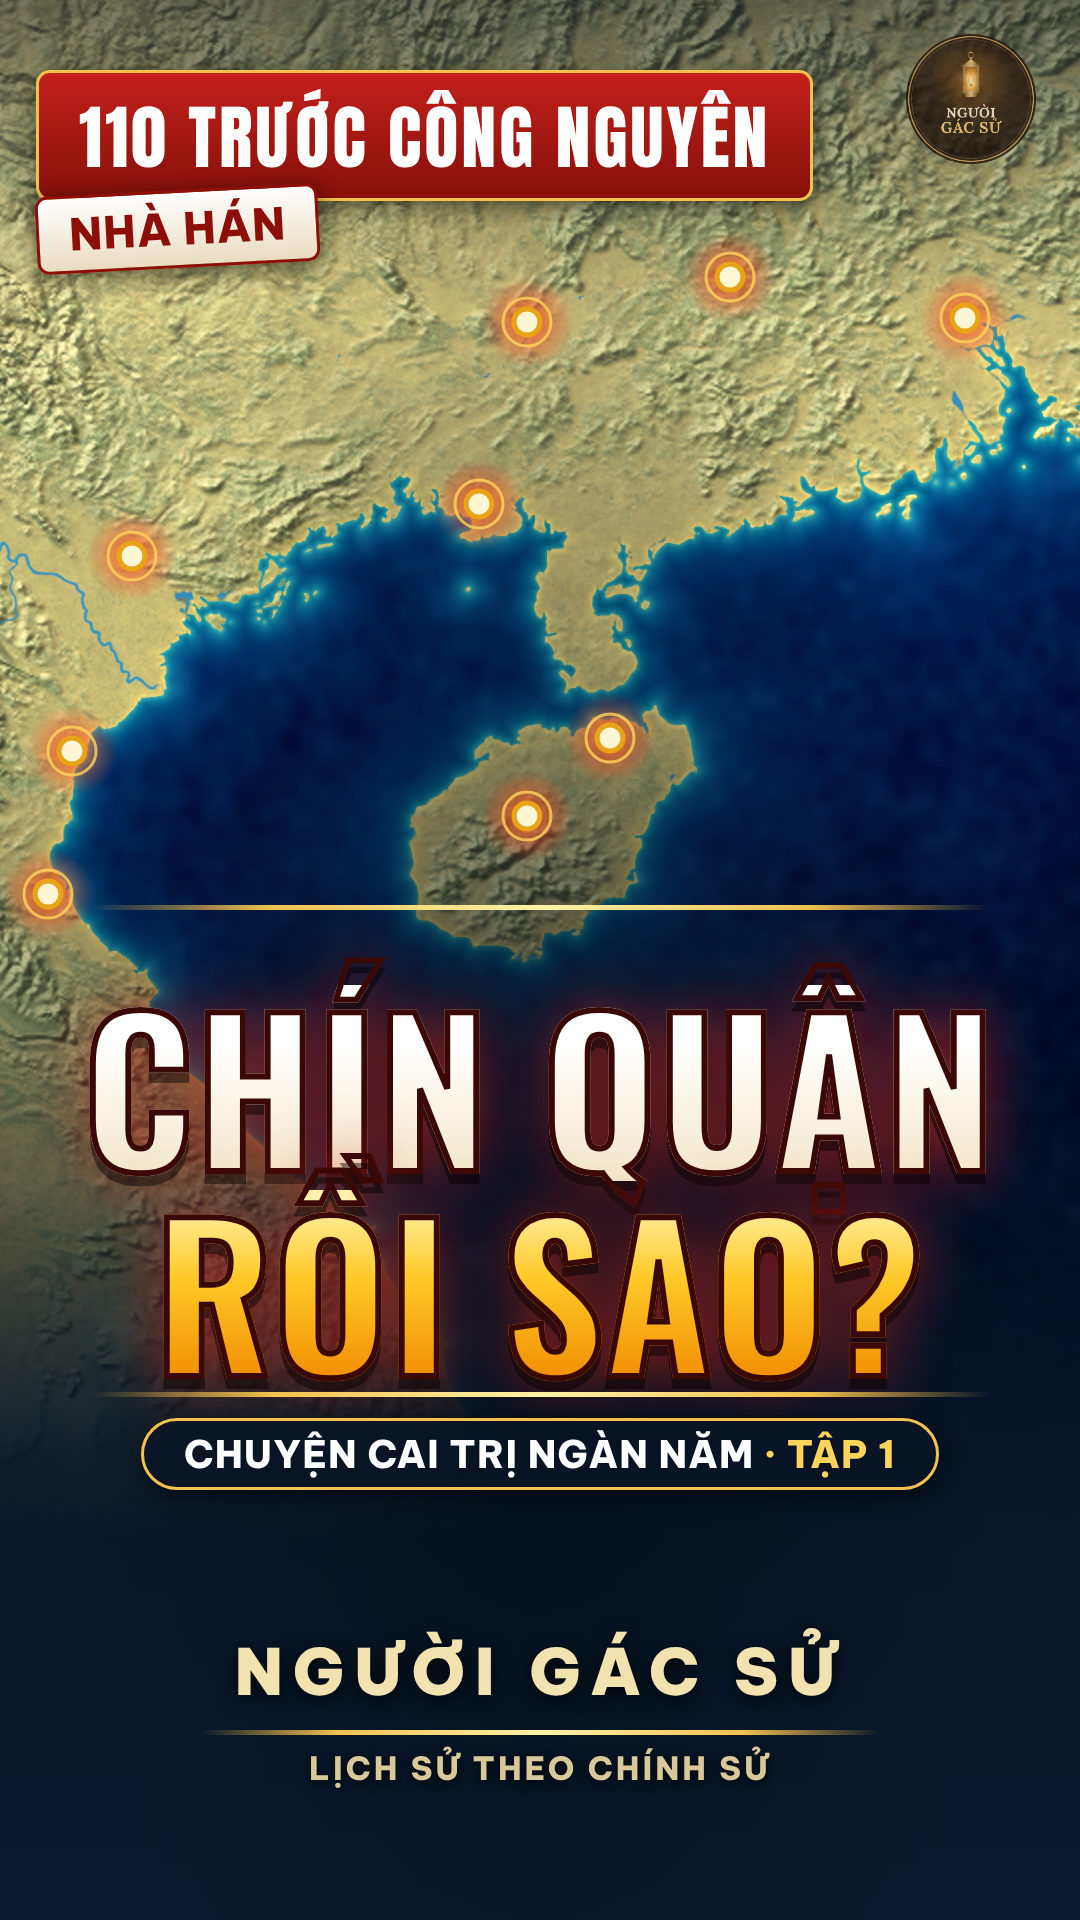
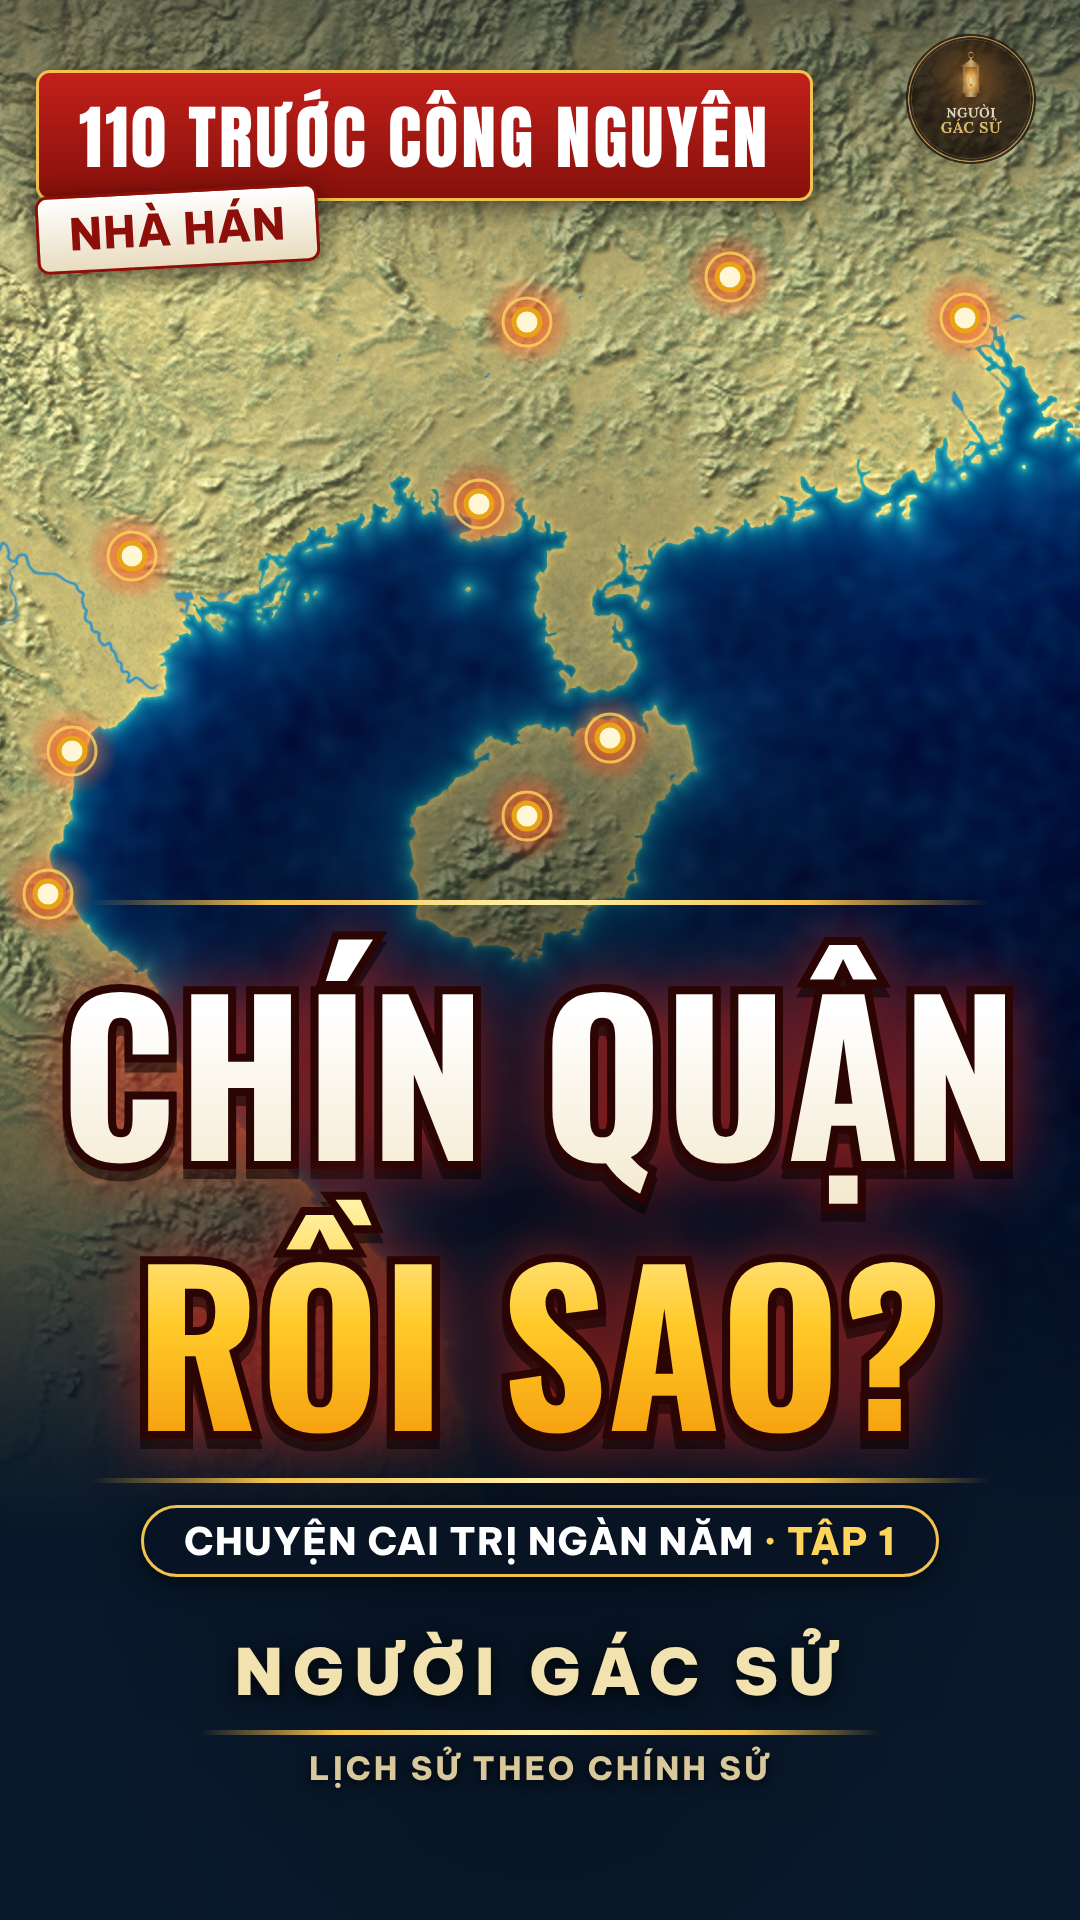
Ảnh bìa tập 1: viền ngoài tách lớp, dấu chữ đầy đủ và rõ ở cỡ điện thoại
Claude-Session: https://claude.ai/code/session_019qmx8ZSfVL3LubtxEFJUua

Changed region(s): [[0.0306, 0.4688, 0.9778, 0.8125]]

diff --git a/assets/bia/HAN1/tao_bia_v3.py b/assets/bia/HAN1/tao_bia_v3.py
@@ -21,7 +21,8 @@ html = f'''<!doctype html><meta charset=utf-8><style>
  radial-gradient(ellipse at 50% 66%,rgba(5,12,22,.62) 0,rgba(5,12,22,0) 62%),
  linear-gradient(180deg,rgba(5,12,22,.55) 0,rgba(5,12,22,0) 16%,rgba(5,12,22,0) 36%,rgba(5,12,22,.5) 60%,rgba(8,22,40,.78) 82%,rgba(10,26,46,.92) 100%)}}
 .ab{{position:absolute;left:0;width:1080px;text-align:center;white-space:nowrap;text-transform:uppercase;line-height:1}}
-.big{{font-family:O;font-weight:700;font-size:196px;letter-spacing:2px;-webkit-text-stroke:6px #3a0907;paint-order:stroke fill;filter:drop-shadow(0 10px 0 rgba(0,0,0,.45)) drop-shadow(0 0 28px rgba(220,40,25,.55))}}
+.big{{font-family:O;font-weight:700;font-size:206px;letter-spacing:2px;padding:50px 0 60px;margin-top:-50px}}
+.bk{{color:#2a0504;-webkit-text-stroke:16px #2a0504;filter:drop-shadow(0 10px 0 rgba(0,0,0,.5)) drop-shadow(0 0 30px rgba(220,40,25,.6))}}
 .w{{background:linear-gradient(180deg,#fff 30%,#f3e6c8 100%);-webkit-background-clip:text;color:transparent}}
 .y{{background:linear-gradient(180deg,#fff2a8 5%,#ffc928 45%,#f08a00 100%);-webkit-background-clip:text;color:transparent}}
 .pill{{position:absolute;display:inline-block;font-family:B;color:#fff;letter-spacing:1px;border:3px solid #f2c14e;background:linear-gradient(180deg,#c3201a,#85100b);box-shadow:0 6px 22px rgba(0,0,0,.55);white-space:nowrap}}
@@ -32,11 +33,13 @@ html = f'''<!doctype html><meta charset=utf-8><style>
 <svg style="position:absolute;left:0;top:0" width=1080 height=1920><defs><radialGradient id=g><stop offset="0" stop-color="#ff7a2a" stop-opacity=".95"/><stop offset=".45" stop-color="#ff4a1a" stop-opacity=".45"/><stop offset="1" stop-color="#ff3b1a" stop-opacity="0"/></radialGradient></defs>{dots}</svg>
 <div class=pill style="left:36px;top:70px;font-size:70px;padding:12px 40px 8px;border-radius:14px;font-family:A;letter-spacing:3px">110 TRƯỚC CÔNG NGUYÊN</div>
 <div class=pill style="left:36px;top:190px;font-size:44px;padding:8px 30px;border-radius:12px;background:linear-gradient(180deg,#fff,#e9dcc0);color:#8d0f0a;border-color:#8d0f0a;transform:rotate(-3deg)">NHÀ HÁN</div>
-<div class=rule style="left:90px;width:900px;top:905px"></div>
-<div class="ab big w acc" style="top:985px">CHÍN QUẬN</div>
-<div class="ab big y acc" style="top:1190px">RỒI SAO?</div>
-<div class=rule style="left:90px;width:900px;top:1392px"></div>
-<div class=ab style="top:1418px"><span class=pill style="position:static;font-size:38px;padding:14px 40px;border-radius:40px;background:rgba(8,20,36,.82)">CHUYỆN CAI TRỊ NGÀN NĂM <span style="color:#ffd45a">· TẬP 1</span></span></div>
+<div class=rule style="left:90px;width:900px;top:900px"></div>
+<div class="ab big bk" style="top:965px">CHÍN QUẬN</div>
+<div class="ab big bk" style="top:1235px">RỒI SAO?</div>
+<div class="ab big w" style="top:965px">CHÍN QUẬN</div>
+<div class="ab big y" style="top:1235px">RỒI SAO?</div>
+<div class=rule style="left:90px;width:900px;top:1478px"></div>
+<div class=ab style="top:1505px"><span class=pill style="position:static;font-size:38px;padding:14px 40px;border-radius:40px;background:rgba(8,20,36,.82)">CHUYỆN CAI TRỊ NGÀN NĂM <span style="color:#ffd45a">· TẬP 1</span></span></div>
 <div class=ab style="top:1640px;font-family:BB;font-size:64px;letter-spacing:10px;color:#f2e2b0;text-shadow:0 4px 18px rgba(0,0,0,.8)">NGƯỜI GÁC SỬ</div>
 <div class=rule style="left:200px;width:680px;top:1730px"></div>
 <div class=ab style="top:1752px;font-family:B;font-size:32px;letter-spacing:3px;color:#d9c89a;text-shadow:0 3px 12px rgba(0,0,0,.8)">LỊCH SỬ THEO CHÍNH SỬ</div>
